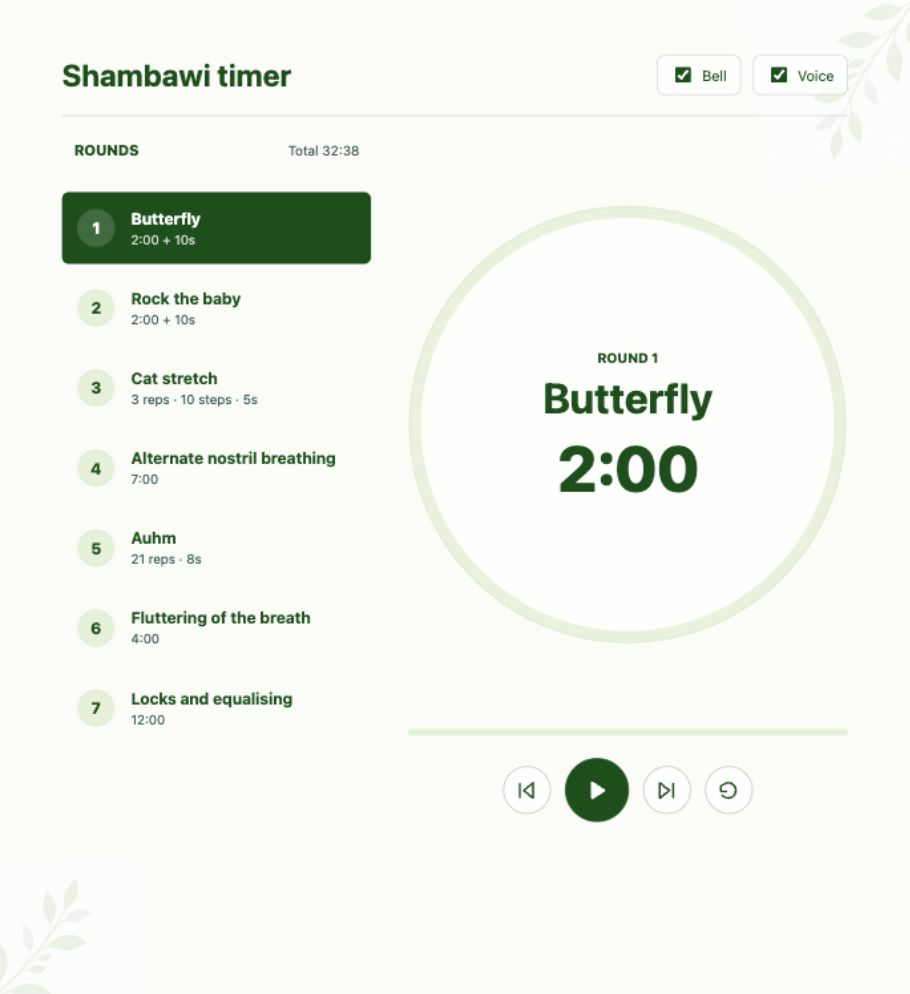
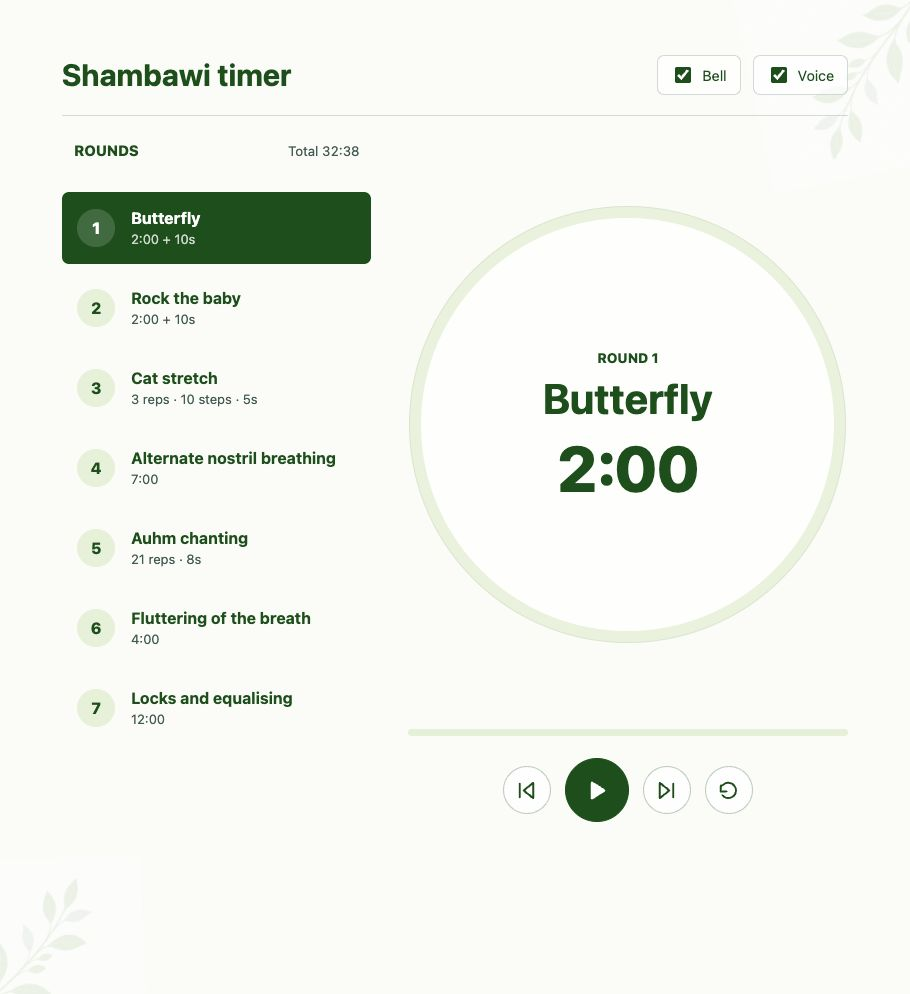
Refine exercise and cue wording

diff --git a/tests/practicePlan.test.js b/tests/practicePlan.test.js
@@ -36,7 +36,12 @@ test("practice plan contains the requested seven rounds in order", () => {
         totalSeconds: 420,
         transitionSeconds: 0,
       },
-      { number: 5, name: "Auhm", totalSeconds: 168, transitionSeconds: 0 },
+      {
+        number: 5,
+        name: "Auhm chanting",
+        totalSeconds: 168,
+        transitionSeconds: 0,
+      },
       {
         number: 6,
         name: "Fluttering of the breath",
@@ -55,7 +60,7 @@ test("practice plan contains the requested seven rounds in order", () => {
 
 test("counting rounds expose repetition and step metadata", () => {
   const catStretch = PRACTICE_PLAN.find((round) => round.name === "Cat stretch");
-  const auhm = PRACTICE_PLAN.find((round) => round.name === "Auhm");
+  const auhm = PRACTICE_PLAN.find((round) => round.name === "Auhm chanting");
 
   assert.equal(catStretch.repetitions, 3);
   assert.equal(catStretch.stepsPerRepetition, 10);

diff --git a/tests/timerCues.test.js b/tests/timerCues.test.js
@@ -10,7 +10,7 @@ test("start cue announces the first round", () => {
 
   assert.deepEqual(cue, {
     bell: true,
-    announcement: "Begin Butterfly",
+    announcement: "Butterfly",
   });
 });
 
@@ -29,13 +29,13 @@ test("immediate round boundary cues the next exercise when no transition exists"
   const alternateNostril = timeline.find(
     (segment) => segment.name === "Alternate nostril breathing",
   );
-  const auhm = timeline.find((segment) => segment.name === "Auhm");
+  const auhm = timeline.find((segment) => segment.name === "Auhm chanting");
 
   const cue = getSegmentCue(alternateNostril, auhm);
 
   assert.deepEqual(cue, {
     bell: true,
-    announcement: "Next: Auhm",
+    announcement: "Next: Auhm chanting",
   });
 });
 

diff --git a/src/practicePlan.js b/src/practicePlan.js
@@ -26,7 +26,7 @@ export const PRACTICE_PLAN = [
   },
   {
     number: 5,
-    name: "Auhm",
+    name: "Auhm chanting",
     totalSeconds: 21 * 8,
     repetitions: 21,
     stepSeconds: 8,

diff --git a/src/timerCues.js b/src/timerCues.js
@@ -4,7 +4,7 @@ export function getSegmentCue(previousSegment, currentSegment) {
   }
 
   if (!previousSegment && currentSegment.type === "round") {
-    return buildCue(`Begin ${currentSegment.name}`);
+    return buildCue(`${currentSegment.name}`);
   }
 
   if (currentSegment.type === "transition") {

diff --git a/README.md b/README.md
@@ -12,7 +12,7 @@ A browser-based meditation timer for a structured seven-round Shambawi practice.
 | 2 | Rock the baby | 2 minutes, then a 10-second transition |
 | 3 | Cat stretch | 3 repetitions of 10 steps, 5 seconds per step |
 | 4 | Alternate nostril breathing | 7 minutes |
-| 5 | Auhm | 21 repetitions, 8 seconds each |
+| 5 | Auhm chanting | 21 repetitions, 8 seconds each |
 | 6 | Fluttering of the breath | 4 minutes |
 | 7 | Locks and equalising | 12 minutes |
 